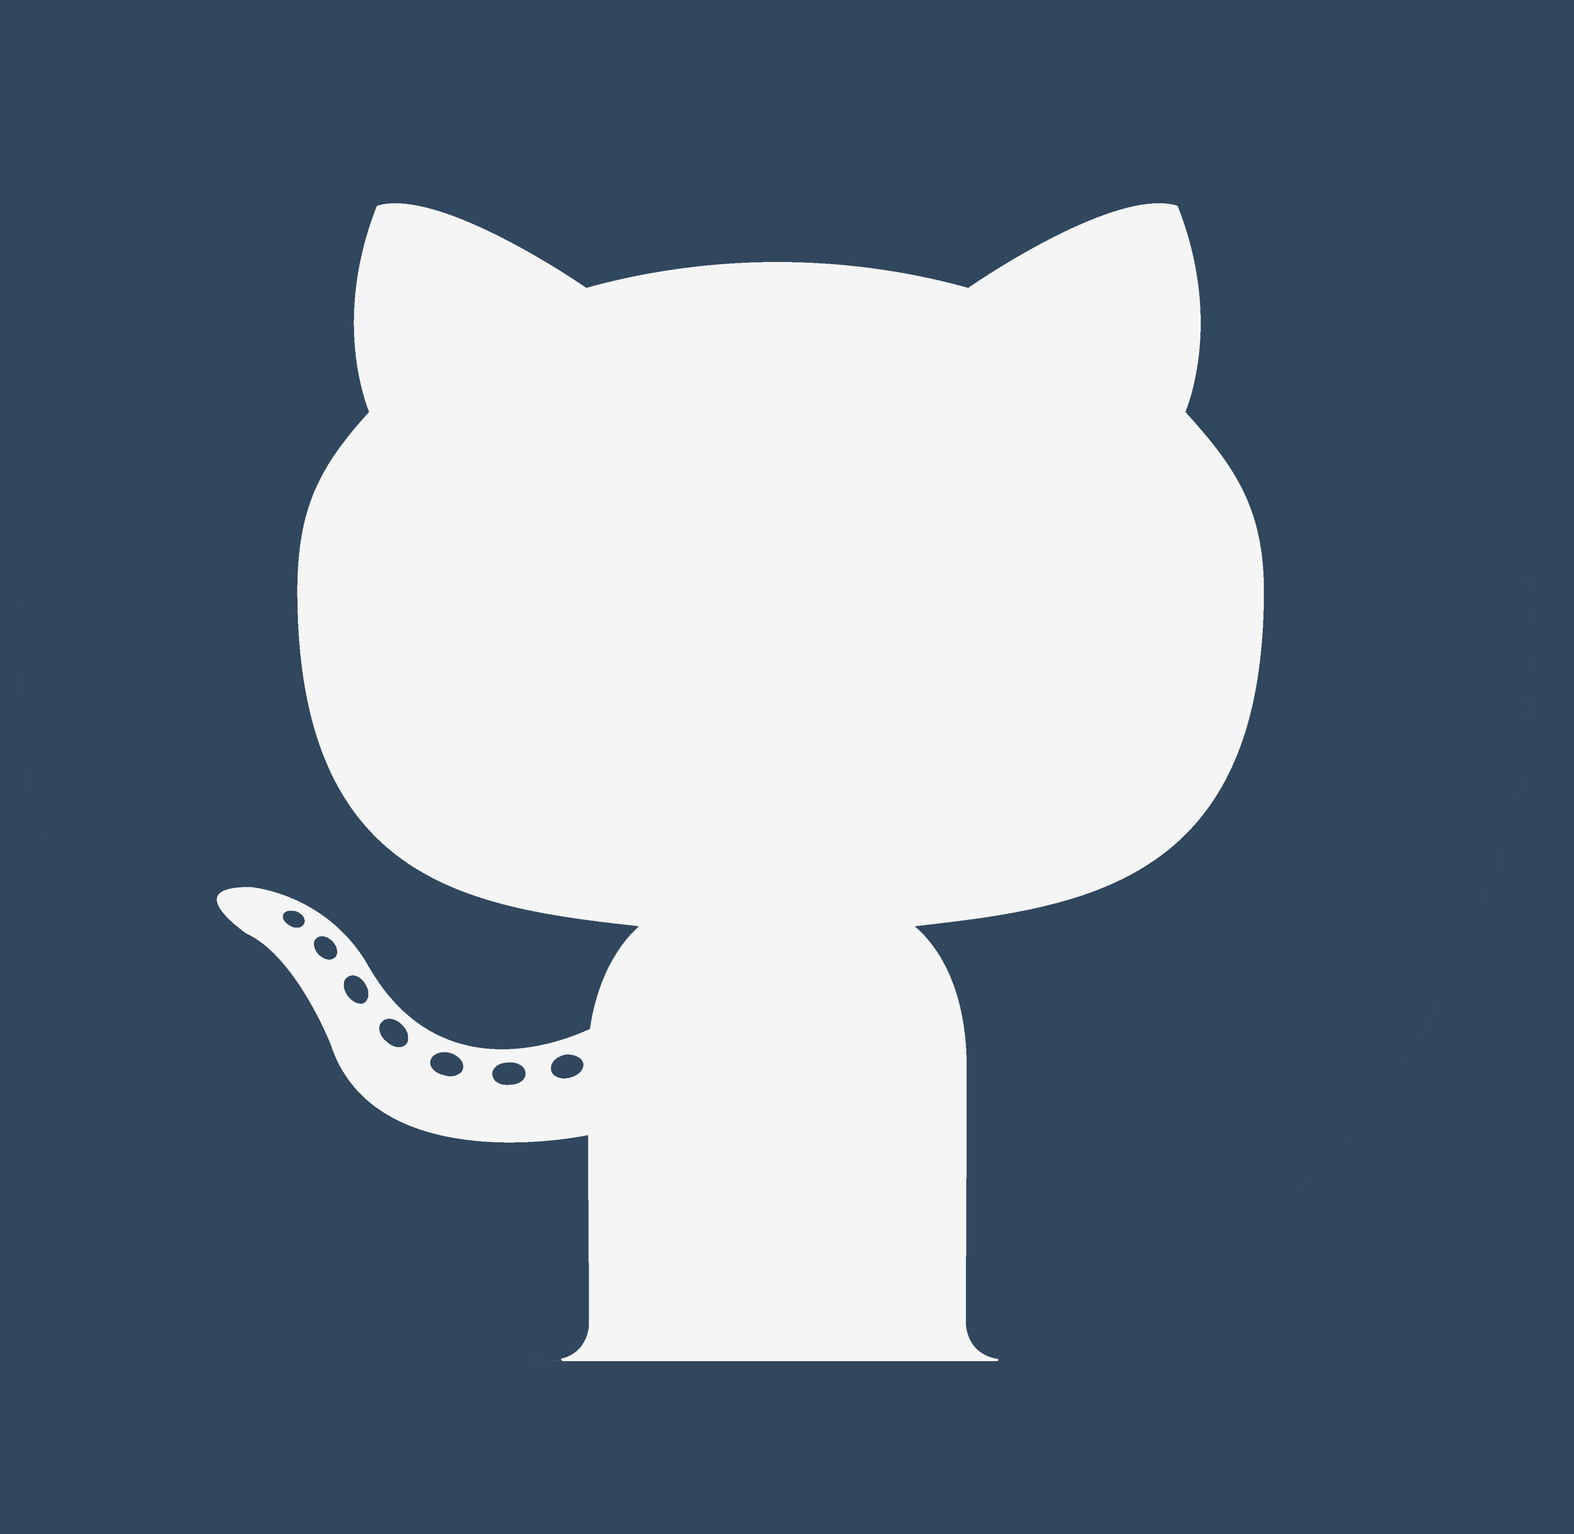
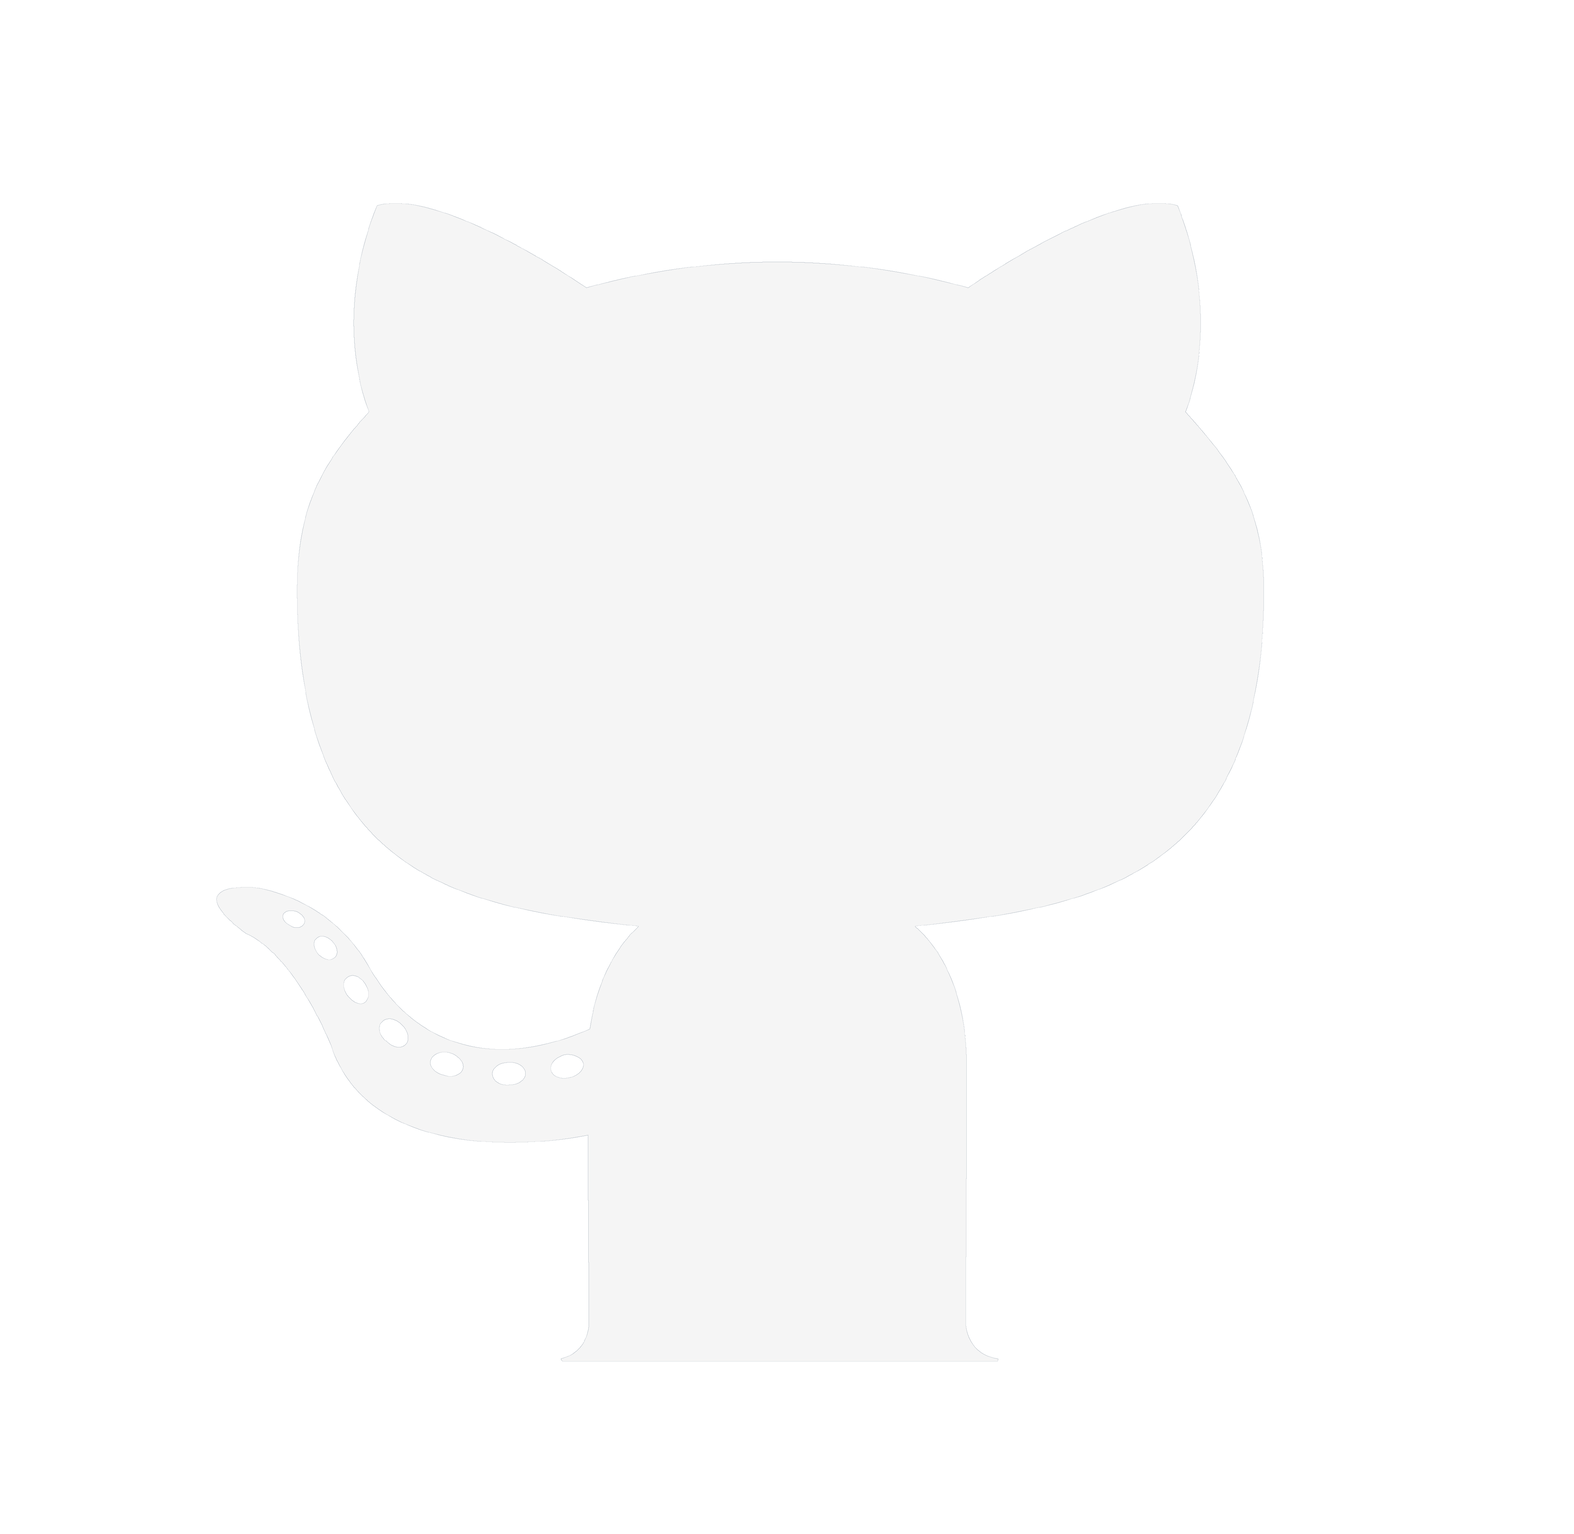
finish darkmode

diff --git a/index.html b/index.html
@@ -23,7 +23,7 @@
 			border-width:0;
 		}
 		a {
-			color: #277fd2;
+			color: #30475e;
 			text-decoration: none;
 		}
 		@media screen and (max-width: 599.98px) { 
@@ -96,9 +96,7 @@
             background: #2d2d2d!important;
             color: #ffffff!important;
          }
-         .darkmode-transparent {
-            background-color: transparent!important;
-         }
+         .darkmode-transparent {background-color: transparent!important;}
       }
 	</style>
 
@@ -129,21 +127,21 @@
          <!-- End Preheader (remove comment) -->
 
 			<!--[if (gte mso 9)|(IE)]>
-				<table width="600" align="center" style="border-spacing:0;color:#3d3d3d;" role="presentation">
+				<table width="600" align="center" style="border-spacing:0;color:#30475e;" role="presentation">
 				<tr>
 				<td style="padding-top:0;padding-right:0;padding-bottom:0;padding-left:0;">
 			<![endif]-->
 
-			<table align="center" style="border-spacing:0;color:#3D3D3D;font-family: 'Lato',sans-serif, Arial, Helvetica;background-color: #f5f5f5;Margin:0;padding-top: 0;padding-right: 0;padding-bottom: 0;padding-left: 0;width: 100%;max-width: 600px;" role="presentation">
+			<table class="darkmode-transparent" align="center" style="border-spacing:0;color:#30475e;font-family: 'Lato',sans-serif, Arial, Helvetica;background-color: #f5f5f5;Margin:0;padding-top: 0;padding-right: 0;padding-bottom: 0;padding-left: 0;width: 100%;max-width: 600px;" role="presentation">
 
 <!-- START SOCIAL ICONS -->
 				<tr>
-					<td style="padding-top:0;padding-right:0;padding-bottom:0;padding-left:0;">
+					<td style="padding-top:0;padding-right:0;padding-bottom:0;padding-left:0;background-color:#30475e;">
 						<table width="100%" style="border-spacing:0;" role="presentation">
 							<tr>
 								<td class="padding content" style="background-color:#30475e;padding-top:10px;padding-right:0;padding-bottom:8px;padding-left:0;width:100%;text-align:center; width:600px;">
 									<a href="mailto:bbartley719@gmail.com" target="_blank""><img src="https://i.ibb.co/D8725VQ/white-email.png" alt="footer email" width="30" style="border-width:0;padding-bottom: 5px;"></a>
-									<a href="https://github.com/Brian7650" target="_blank""><img src="https://i.ibb.co/k2LVb7n/githubblue2.png" alt="behance" width="28" style="border-width:0;padding-right:1px;"></a>
+									<a href="https://github.com/Brian7650" target="_blank""><img src="https://i.ibb.co/6WK0q2M/githubblue2.png" alt="behance" width="28" style="border-width:0;padding-right:1px;"></a>
                                     <a href="https://www.example.com" target="_blank"><img src="https://i.ibb.co/5v7H6tY/white-linkedin.png" alt="linkedin" width="28" style="border-width:0;padding-right:1px;"></a>
 									<a href="https://www.instagram.com/brianb7547/" target="_blank"><img src="https://i.ibb.co/X8hFFgv/white-instagram.png" alt="instagram" width="28" style="border-width:0;padding-right:1px;"></a>
                                     <a href="https://www.facebook.com/brtl765" target="_blank"><img src="https://i.ibb.co/MMzjYp3/white-facebook.png" alt="facebook" width="28" style="border-width:0;padding-right:1px;"></a>
@@ -157,12 +155,12 @@
 
 <!-- START LOGO -->
 				<tr>
-					<td style="padding-top:0;padding-right:0;padding-bottom:0;padding-left:0;border-top: 3px solid #f5f5f5;border-bottom: 3px solid #f5f5f5;">
+					<td style="padding-top:0;padding-right:0;padding-bottom:0;padding-left:0;">
 						<table width="100%" style="border-spacing:0;" role="presentation">
 							<tr>
-								<td class="padding content" style="padding-top:10px;padding-right:20px;padding-bottom:8px;padding-left:20px;width:100%;text-align:center; width:600px;">
+								<td style="padding-top:15px;padding-right:20px;padding-bottom:12px;padding-left:20px;width:100%;text-align:center; width:600px;">
 
-									<a href="https://brian7650.github.io/Brian-Portfolio-2.0/" target="_blank"><img src="https://i.ibb.co/ZTMzbBr/briantitle-blue.png" alt="" width="180" style="border-width:0;"></a>
+									<a href="https://brian7650.github.io/Brian-Portfolio-2.0/" target="_blank"><img src="https://i.ibb.co/hR9r9gT/briantitle-blue01.png" alt="" width="180" style="border-width:0;"></a>
 
 								</td>
 							</tr>
@@ -266,7 +264,7 @@
 					<td style="padding-top:0;padding-right:0;padding-bottom:0;padding-left:0;background-color: #30475e;border-top: 3px solid #30475e;border-bottom: 3px solid #30475e;">
 						<table width="100%" style="border-spacing:0;" role="presentation">
 							<tr>
-								<td class="three-columns" style="padding-top:18px;padding-right:0;padding-bottom:13px;padding-left:0;text-align:center;font-size:0;">
+								<td class="three-columns" style="padding-top:18px;padding-right:0;padding-bottom:13px;padding-left:0;text-align:center;font-size:0;background-color: #30475e;">
 
 									<!--[if (gte mso 9)|(IE)]>
 										<table width="100%" style="border-spacing:0;" role="presentation">
@@ -276,10 +274,10 @@
 
 									<table class="column" style="border-spacing:0;width:100%;max-width:200px;display:inline-block;vertical-align:top;" role="presentation">
 										<tr>
-											<td class="padding px-sm-0" style="padding-top:0;padding-right:0;padding-bottom:0;padding-left:0;">
+											<td class="padding px-sm-0 darkmode-transparent" style="padding-top:0;padding-right:0;padding-bottom:0;padding-left:0;">
 												<table class="content" style="border-spacing:0;color:#ffffff;width:200px;font-size:15px;text-align:center;" role="presentation">
 													<tr>
-														<td style="padding-top:5px;padding-right:0;padding-bottom:0;padding-left:0;">
+														<td style="padding-top:5px;padding-right:0;padding-bottom:0;padding-left:0;background-color: #30475e;">
 															<img src="https://i.ibb.co/3cX7mYL/html-5.png" alt="html5" width="55" style="display:inline-block;border-width:0;max-width: 55px;"></a>
 															<p style="font-size:22px;color:#ffffff;font-weight:bold;margin-block-start: .6em;">HTML5</p>
 														</td>
@@ -293,12 +291,12 @@
 										</td><td width="200" valign="top" style="padding-top:0;padding-right:0;padding-bottom:0;padding-left:0;">
 									<![endif]-->
 									
-									<table class="column" style="border-spacing:0;font-family:'Lato',sans-serif;color:#ffffff;font-size: 22px;width:100%;max-width:200px;display:inline-block;vertical-align:top;" role="presentation">
+									<table class="column darkmode-transparent" style="border-spacing:0;font-family:'Lato',sans-serif;color:#ffffff;font-size: 22px;width:100%;max-width:200px;display:inline-block;vertical-align:top;" role="presentation">
 										<tr>
-											<td class="padding px-sm-0" style="padding-top:0;padding-right:0;padding-bottom:0;padding-left:0;">
+											<td class="padding px-sm-0" style="padding-top:0;padding-right:0;padding-bottom:0;padding-left:0;background-color: #30475e;">
 												<table class="content" style="border-spacing:0;font-family:'Lato',sans-serif;color:#ffffff;width:200px;font-size:15px;text-align:center;" role="presentation">
 													<tr>
-														<td style="padding-top:5px;padding-right:0;padding-bottom:0;padding-left:0;">
+														<td style="padding-top:5px;padding-right:0;padding-bottom:0;padding-left:0;background-color: #30475e;">
 															<img src="https://i.ibb.co/GnsgHgR/photoshop-white.png" alt="" width="55" style="display:inline-block;border-width:0;max-width: 55px;"></a>
 															<p style="font-size:22px;color:#ffffff;font-weight:bold;margin-block-start: .6em;">Photoshop</p>
 														</td>
@@ -317,7 +315,7 @@
 											<td class="padding px-sm-0" style="padding-top:0;padding-right:0;padding-bottom:0;padding-left:0;">
 												<table class="content" style="border-spacing:0;font-family:'Lato',sans-serif;color:#ffffff;width:200px;font-size:15px;text-align:center;" role="presentation">
 													<tr>
-														<td style="padding-top:5px;padding-right:0;padding-bottom:0;padding-left:0;">
+														<td style="padding-top:5px;padding-right:0;padding-bottom:0;padding-left:0;background-color: #30475e;">
 															<img src="https://i.ibb.co/rv6Gnv9/css-3.png" alt="" width="55" style="display:inline-block;border-width:0;max-width: 55px;"></a>
 															<p style="font-size:22px;color:#ffffff;font-weight:bold;margin-block-start: .6em;">CSS3</p>
 														</td>
@@ -362,7 +360,7 @@
 
                 <!-- START THREE COLUMNS -->
             <tr>
-                <td style="padding-top:10px;padding-right:0;padding-bottom:15px;padding-left:0;">
+                <td style="padding-top:0px;padding-right:0;padding-bottom:0px;padding-left:0;">
                    <table width="100%" style="border-spacing:0;" role="presentation">
                       <tr>
                          <td class="three-columns" style="padding-right:0;padding-left:0;font-size:0;text-align: center;">
@@ -427,11 +425,11 @@
                             </td><td width="200" valign="top" style="padding-top:0;padding-right:0;padding-bottom:0;padding-left:0;">
                             <![endif]-->
  
-                            <table class="column" style="border-spacing:0;width: 100%;max-width: 200px;display: inline-block;vertical-align: top;" role="presentation">
+                            <table class="column darkmode-transparent" style="border-spacing:0;width: 100%;max-width: 200px;display: inline-block;vertical-align: top;" role="presentation">
                                <tr>
-                                  <td class="padding" style="padding-top:15px;padding-right:15px;padding-bottom:15px;padding-left:15px;">
+                                  <td class="padding darkmode-transparent" style="padding-top:15px;padding-right:15px;padding-bottom:15px;padding-left:15px;">
  
-                                     <table class="content" style="border-spacing:0;text-align: center;" role="presentation">
+                                     <table class="content darkmode-transparent" style="border-spacing:0;text-align: center;" role="presentation">
                                         <tr>
                                            <td>
                                                  <img class="three-col-img three-col-img-last" src="https://i.ibb.co/4sBNvXd/cart-shopping-solid-red.png" alt="" width="90" style="max-width: 90px;border-radius: 45px;" border="0">
@@ -485,10 +483,10 @@
 
              <!-- START TWO THIRDS COLUMNS -->
             <tr>
-                <td style="padding-top:10px;padding-right:0;padding-bottom:0px;padding-left:0;">
+                <td class="darkmode-transparent"style="padding-top:0px;padding-right:0;padding-bottom:0px;padding-left:0;">
                    <table width="100%" style="border-spacing:0;" role="presentation">
                       <tr>
-                         <td class="two-third-columns" style="padding-right:0;padding-left:0;font-size:0;text-align: center;background-color: #f5f5f5;">
+                         <td class="two-third-columns darkmode-transparent" style="padding-right:0;padding-left:0;font-size:0;text-align: center;background-color: #f5f5f5;">
  
                             <!--[if (gte mso 9)|(IE)]>
                                <table width="100%" style="border-spacing:0;" role="presentation">
@@ -496,33 +494,33 @@
                                <td width="400" valign="top" style="padding-top:0;padding-right:0;padding-bottom:0;padding-left:0;">
                             <![endif]-->
  
-                            <table class="column" style="border-spacing:0;vertical-align:top;width:100%;max-width:400px;display:inline-block;" role="presentation">
+                            <table class="column darkmode-transparent" style="border-spacing:0;vertical-align:top;width:100%;max-width:400px;display:inline-block;" role="presentation">
                                <tr>
-                                  <td class="padding first" style="padding-top: 20px;padding-right: 20px;padding-bottom: 15px;padding-left: 20px;background-color: #f5f5f5;">
+                                  <td class="padding first darkmode-transparent" style="padding-top: 20px;padding-right: 20px;padding-bottom: 15px;padding-left: 20px;background-color: #f5f5f5;">
  
                                      <table class="content" style="border-spacing:0;text-align: center;" role="presentation">
                                                      <tr>
-                                                         <td align="left" style="background-color: #f5f5f5;padding-left:20px;">
+                                                         <td class="darkmode-transparent" align="left" style="background-color: #f5f5f5;padding-left:20px;">
                                                              <p style="Margin:0;font-size:25px;font-weight:bold;line-height:36px;color: #30475e;">For More Info</p>
                                                          </td>
                                                      </tr>
                                                      <tr>
-                                                         <td align="left" style="background-color: #f5f5f5;padding-top:16px;padding-left:20px;">
+                                                         <td class="darkmode-transparent" align="left" style="background-color: #f5f5f5;padding-top:16px;padding-left:20px;">
                                                              <p style="Margin:0;font-size:15px;line-height:22px;Margin-bottom:12px;color: #30475e;">To get in touch with me you can reach me for more information by my email or the social media outlets below</p>
                                                              <p style="Margin:0;font-size:15px;line-height:22px;Margin-bottom:12px;color: #30475e;">You can checkout my Portfolio or send me an email by clicking below.</p>
                                                          </td>
                                                      </tr>
                                                      <tr>
-                                                         <td align="left" style="padding-top:10px;padding-left:20px;background-color: #f5f5f5;">
+                                                         <td class="darkmode-transparent" align="left" style="padding-top:10px;padding-left:20px;background-color: #f5f5f5;">
                                                              <table align="left" border="0" cellpadding="0" cellspacing="0" role="presentation" style="border-spacing:0;">
                                                                  <tr>
                                                                      
-                                                                     <td align="center" style="border-radius:4px;padding-right:35px;" bgcolor="#f5f5f5">
+                                                                     <td class="darkmode-transparent"align="center" style="border-radius:4px;padding-right:35px;" bgcolor="#f5f5f5">
                                                                          <a href="mailto:bbartley719@gmail.com" target="_blank" style="font-size: 15px;font-weight: bold;text-decoration: none;color: #f5f5f5;background-color: #f05454;border:1px solid #f5f5f5;border-radius:4px;padding:10px 16px;display: inline-block;">Email
                                                                          </a>
                                                                      </td>
 
-																	 <td align="center" style="border-radius:4px;" bgcolor="#ff5f5f5">
+																	 <td class="darkmode-transparent"align="center" style="border-radius:4px;" bgcolor="#ff5f5f5">
 																		<a href="https://brian7650.github.io/Brian-Portfolio-2.0/" target="_blank" style="font-size: 15px;font-weight: bold;text-decoration: none;color: #f5f5f5;background-color: #f05454;border:1px solid #f5f5f5;border-radius:4px;padding:10px 16px;display: inline-block;">Portfolio
 																		</a>
 																	</td>
@@ -541,18 +539,18 @@
                             </td><td width="200" valign="top" style="padding-top:0;padding-right:0;padding-bottom:0;padding-left:0;">
                             <![endif]-->
  
-                            <table class="column" style="border-spacing:0;vertical-align:top;width:100%;max-width:200px;display:inline-block;" role="presentation">
+                            <table class="column darkmode-transparent" style="border-spacing:0;vertical-align:top;width:100%;max-width:200px;display:inline-block;" role="presentation">
                                <tr>
  
                                   <!--[if (gte mso 9)|(IE)]>
                                      <td style="padding-top:15px;">
                                   <![endif]-->
  
-                                  <td class="padding last" style="padding-top: 20px;padding-right: 10px;padding-bottom: 15px;background-color: #f5f5f5;">
+                                  <td class="darkmode-transparent" class="padding last" style="padding-top: 20px;padding-right: 10px;padding-bottom: 15px;background-color: #f5f5f5;">
  
-                                     <table class="content" style="border-spacing:0;text-align: left;" role="presentation">
+                                     <table class="content darkmode-transparent" style="border-spacing:0;text-align: left;" role="presentation">
                                                      <tr>
-                                                         <td style="padding-top:0;padding-right:0;padding-bottom:0;padding-left:0;">
+                                                         <td class="darkmode-transparent"style="padding-top:0;padding-right:0;padding-bottom:0;padding-left:0;">
                                                              <a href="https://www.example.com"><img class="third-img-last" src="https://i.ibb.co/mbJh1x0/row-right.jpg" width="200" alt="" style="border-width:0;width:100%;max-width:200px;height:auto;"></a>
                                                          </td>
                                                      </tr>
@@ -627,7 +625,7 @@
 
 					<!-- START FIRST TABLE ROW -->
 			<tr>
-				<td style="padding:0;">
+				<td class="darkmode-bg"style="padding:0;">
 					<table width="100%" style="border-spacing:0;" role="presentation">
 					
 						<tr>
@@ -650,8 +648,8 @@
 					<td style="background-color:#30475e;padding-top:0;padding-right:0;padding-bottom:0;padding-left:0;">
 						<table width="100%" style="border-spacing:0;" role="presentation">
 							<tr>
-								<td class="padding content" style="font-size:13px;padding-top:15px;padding-right:20px;padding-bottom:10px;padding-left:20px;width:100%;text-align:center; width:600px;">
-									<a href="https://www.example.com"><img src="https://i.ibb.co/Bn0SWmS/resume-title-white.png" alt="" width="150" style="border-width:0;"></a>
+								<td class="padding content" style="font-size:13px;padding-top:15px;padding-right:20px;padding-bottom:10px;padding-left:20px;width:100%;text-align:center; width:600px;background-color: #30475e;">
+									<a href="https://www.example.com"><img src="https://i.ibb.co/rmSm7Cn/resume-title-white.png" alt="" width="150" style="border-width:0;"></a>
 									<p style="font-size:13px;color:#ffffff">HTML Email Developer</p>
 									<p style="font-size:13px;text-decoration:none;color:#ffffff">Brampton, Ontario, Canada</p>
 									<p><a style="font-size:13px; color:#30475e;text-decoration:none;color:#ffffff;" href="mailto:email@example.com">bbartley719@gmail.com</a></p>
@@ -668,6 +666,14 @@
 				</tr>
 <!-- END FOOTER -->		
 	
-
+	</table>
+		
+	<!--[if (gte mso 9)|(IE)]>
+				</td>
+				</tr>
+				</table>
+			<![endif]-->
+	</div>
+	</center>
 </body>
 </html>
